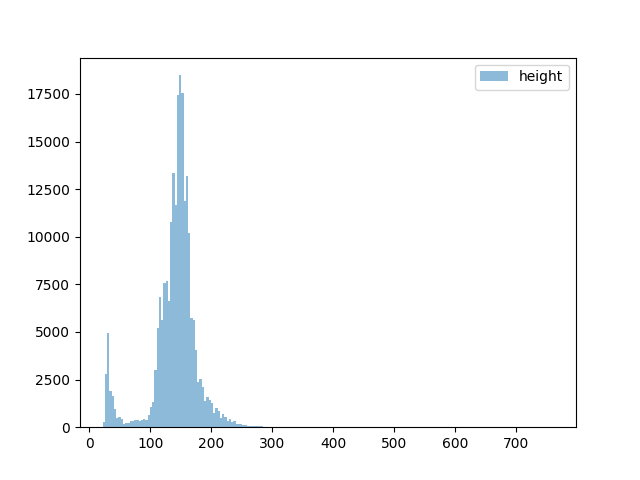
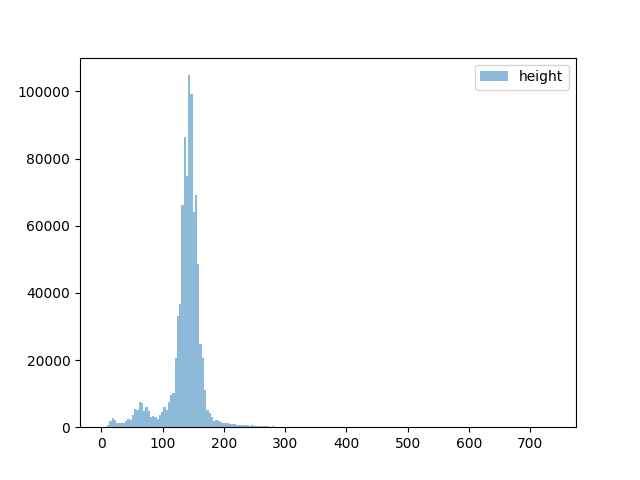
Height and width distributions of new barley samples

diff --git a/preprocess/hist_size.py b/preprocess/hist_size.py
@@ -1,14 +1,17 @@
 import numpy as np
 import matplotlib.pyplot as plt
 
-width = np.load('width_sorted.npy')
-height = np.load('heigh_sorted.npy')
+width = np.load('pickle_width.npy')
+height = np.load('pickle_height.npy')
 
 #bins = np.linspace(25, 300, 100)
 
 #plt.hist(width, bins, alpha = 0.5, label = 'width')
-print(np.percentile(width, [10, 98]))
-plt.hist(height, bins = 200, alpha = 0.5, label = 'height')
+print(np.percentile(width, [1, 98]))
+print(np.percentile(height, [1,98]))
+'''
+plt.hist(width, bins = 200, alpha = 0.5, label = 'width')
 plt.legend(loc = 'upper right')
-plt.savefig('height_distribution')
+plt.savefig('width_distribution')
 plt.show()
+'''

diff --git a/preprocess/pre_process.py b/preprocess/pre_process.py
@@ -3,21 +3,6 @@
 
 
 
-
-
-
-
-
-
-
-
-
-
-
-
-
-
-
 if __name__ == "__main__":
     pass
     # Script in under this statement will only be run when this file is executed
